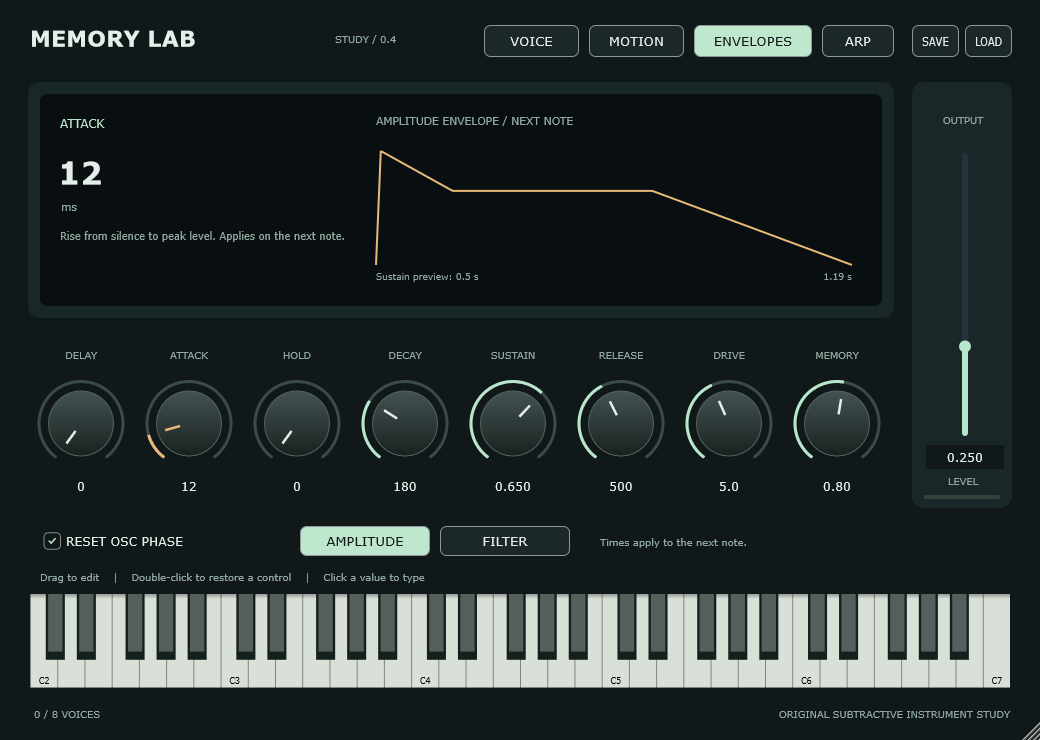
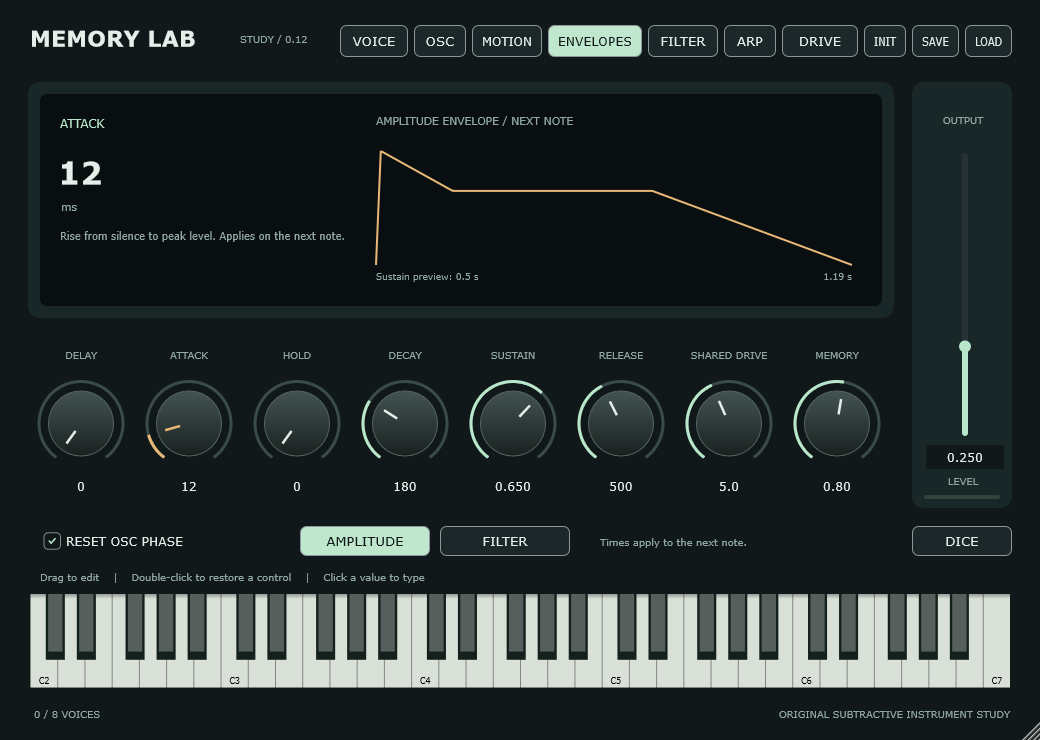
Update project site for version 0.12 expression and current editor

Changed region(s): [[0.3077, 0.0311, 0.8615, 0.0932], [0.6769, 0.4662, 0.7385, 0.4973], [0.2462, 0.0311, 0.2769, 0.0622]]

diff --git a/docs/index.html b/docs/index.html
@@ -24,15 +24,15 @@
 
     <section id="instrument" class="instrument wrap" aria-labelledby="instrument-title">
       <div class="section-top"><h2 id="instrument-title">Meet the instrument.</h2><span class="small muted">PLAY FIRST. EXPLORE FROM THERE.</span></div>
-      <div class="screen-frame"><div class="screen-top"><span><i aria-hidden="true"></i> DEVELOPMENT EDITOR</span><span>0.4 SERIES</span></div><img id="editor-image" src="assets/editor/voice.png" alt="Memory Lab Study Voice editor with eight rotary controls, a filter response display and piano keyboard" width="1040" height="740" fetchpriority="high"></div>
+      <div class="screen-frame"><div class="screen-top"><span><i aria-hidden="true"></i> DEVELOPMENT EDITOR</span><span>0.12 SERIES</span></div><img id="editor-image" src="assets/editor/voice.png" alt="Memory Lab Study Voice editor with eight rotary controls, a filter response display and piano keyboard" width="1040" height="740" fetchpriority="high"></div>
       <div class="editor-selector" role="group" aria-label="Explore the editor pages">
-        <button type="button" data-view="voice" aria-pressed="true">01 <span>Voice</span></button><button type="button" data-view="motion" aria-pressed="false">02 <span>Motion</span></button><button type="button" data-view="amplitude" aria-pressed="false">03 <span>Amplitude</span></button><button type="button" data-view="filter-envelope" aria-pressed="false">04 <span>Filter envelope</span></button><button type="button" data-view="arp" aria-pressed="false">05 <span>Arpeggiator</span></button>
+        <button type="button" data-view="voice" aria-pressed="true">01 <span>Voice</span></button><button type="button" data-view="expression" aria-pressed="false">02 <span>Expression</span></button><button type="button" data-view="osc" aria-pressed="false">03 <span>Oscillators</span></button><button type="button" data-view="motion" aria-pressed="false">04 <span>Motion</span></button><button type="button" data-view="motion-clock" aria-pressed="false">05 <span>Clock</span></button><button type="button" data-view="amplitude" aria-pressed="false">06 <span>Amplitude</span></button><button type="button" data-view="filter-envelope" aria-pressed="false">07 <span>Filter envelope</span></button><button type="button" data-view="filter-classic" aria-pressed="false">08 <span>Filter</span></button><button type="button" data-view="arp" aria-pressed="false">09 <span>Arpeggiator</span></button><button type="button" data-view="drive" aria-pressed="false">10 <span>Drive</span></button><button type="button" data-view="dice-bypass" aria-pressed="false">11 <span>Dice</span></button>
       </div>
       <p id="editor-caption" class="caption" aria-live="polite">Shape two oscillators, sweep the classic filter, and explore shared drive, memory and recovery.</p>
-      <div class="feature-strip"><article><span class="feature-number">08</span><h3>Voices to play with</h3><p>Polyphonic notes, sustain and expressive pitch and pressure controls.</p></article><article><span class="feature-number">02</span><h3>Independent envelopes</h3><p>Amplitude and filter contours with delay, attack, hold, decay, sustain and release.</p></article><article><span class="feature-number">∿</span><h3>Movement built in</h3><p>A per-voice sine LFO and an optional arpeggiator that follows host or internal tempo.</p></article></div>
+      <div class="feature-strip"><article><span class="feature-number">08</span><h3>Voices to play with</h3><p>Polyphonic notes, sustain and expressive pitch and pressure controls.</p></article><article><span class="feature-number">02</span><h3>Independent envelopes</h3><p>Amplitude and filter contours with delay, attack, hold, decay, sustain and release.</p></article><article><span class="feature-number">∿</span><h3>Movement built in</h3><p>Four LFO shapes, host-synced or free-running movement, and an optional tempo-following arpeggiator.</p></article></div>
     </section>
 
-    <section id="listen" class="listen-band" aria-labelledby="listen-title"><div class="wrap listen-grid"><div class="listen-intro"><span class="eyebrow">02 / THE LISTENING ROOM</span><h2 id="listen-title">Same notes.<br>Different <em>edge.</em></h2><p>A first experiment with drive after each voice’s filter. Compare a single note with an E-minor chord as the low-pass filter opens.</p><p class="muted">Bypass, +8 dB and +24 dB, matched to −24 dBFS RMS. Listen for texture, bite and the separation between notes.</p><div class="experiment-tag">OFFLINE EXPERIMENT</div><p class="fine">Simple hard clipping, not a model of a hardware VCA. Shared memory drive is set to zero here. This experiment is not in the installed plugin.</p></div>
+    <section id="listen" class="listen-band" aria-labelledby="listen-title"><div class="wrap listen-grid"><div class="listen-intro"><span class="eyebrow">02 / THE LISTENING ROOM</span><h2 id="listen-title">Same notes.<br>Different <em>edge.</em></h2><p>A first experiment with drive after each voice’s filter. Compare a single note with an E-minor chord as the low-pass filter opens.</p><p class="muted">Bypass, +8 dB and +24 dB, matched to −24 dBFS RMS. Listen for texture, bite and the separation between notes.</p><div class="experiment-tag">OFFLINE EXPERIMENT</div><p class="fine">Simple hard clipping, not a model of a hardware VCA. Shared memory drive is set to zero here. These original study clips predate the current release; per-voice drive is now available in the instrument.</p></div>
       <div class="listening-panel"><div class="phrase-switch" role="group" aria-label="Choose a listening phrase"><button type="button" data-phrase="single" aria-pressed="true">Single note</button><button type="button" data-phrase="chord" aria-pressed="false">E-minor chord</button></div><p id="phrase-description" class="small muted" aria-live="polite">A SINGLE E NOTE · 3 SECONDS · 48 KHZ</p>
       <article class="audio-row"><div class="audio-title"><span class="index">A</span><h3>Bypass</h3><span class="audio-detail">THE REFERENCE</span></div><audio controls preload="none" src="assets/audio/single-bypass.wav" aria-label="Single note, extra drive bypassed">Your browser does not support audio. <a href="assets/audio/single-bypass.wav">Download the reference WAV.</a></audio></article>
       <article class="audio-row"><div class="audio-title"><span class="index">B</span><h3>+8 dB</h3><span class="audio-detail">MORE DRIVE</span></div><audio controls preload="none" src="assets/audio/single-8db.wav" aria-label="Single note, 8 decibels of extra drive">Your browser does not support audio. <a href="assets/audio/single-8db.wav">Download the 8 dB WAV.</a></audio></article>
@@ -41,10 +41,10 @@
     </div></section>
 
     <section id="research" class="research wrap" aria-labelledby="research-title"><div class="section-top"><span class="eyebrow">03 / THE PROCESS</span><span class="small muted">LISTEN. MEASURE. KEEP WHAT WORKS.</span></div><div class="research-grid"><h2 id="research-title">Inspired by hardware.<br><em>Finding its own voice.</em></h2><div><p>Memory Lab began with a question: what happens when a drive stage remembers recent signal energy? That shared memory stage remains at the heart of the study.</p><p class="muted">Research into the Shear Electronics Relic informs new experiments, including per-voice drive and richer modulation. This is an original, partial instrument—not a complete Relic emulation or a measured hardware match.</p><a class="text-link" href="https://github.com/holbizmetrics/memory-lab-study/blob/main/HARDWARE-SYNTH-WORKFLOW.md">Read the development notebook <span aria-hidden="true">↗</span></a><p class="fine repo-note">Source, notebook and release history are available in the public repository.</p></div></div>
-      <div class="progress-list"><article><span class="progress-label">PLAYABLE</span><div><h3>A character to build on</h3><p>Eight-voice engine, classic filter sweep, editable envelopes and an optional arp. Played and enjoyed in FL Studio.</p></div></article><article><span class="progress-label">DEVELOPMENT BUILD</span><div><h3>Keep the sounds you discover</h3><p>Save and load all 35 controls in a separate patch file. The development editor shown here includes these buttons.</p></div></article><article><span class="progress-label amber">EXPLORING</span><div><h3>More ways to shape a voice</h3><p>Per-voice drive is the current listening study. Future candidates include oscillator mixing, envelope contours and richer filter modulation.</p></div></article></div>
+      <div class="progress-list"><article><span class="progress-label">PLAYABLE</span><div><h3>A character to build on</h3><p>Eight-voice engine, classic filter sweep, editable envelopes and an optional arp. Played and enjoyed in FL Studio.</p></div></article><article><span class="progress-label">DEVELOPMENT BUILD</span><div><h3>Keep the sounds you discover</h3><p>Save and load all 49 controls in .mlpatch files, recall settings through your DAW, and return to factory settings with INIT. Patch dialogs remember their folder; older patches migrate to compatible defaults.</p></div></article><article><span class="progress-label amber">IMPLEMENTED</span><div><h3>More ways to shape a voice</h3><p>Independent saw/pulse mixing and white noise, four filter families, per-voice and shared drive, and a bounded preset randomizer with section locks, one-step undo and optional drive bypass are implemented.</p></div></article><article><span class="progress-label">NEW IN 0.12</span><div><h3>A more expressive voice</h3><p>Filter key tracking and separate amplitude/filter-envelope velocity sensitivities, with response previews on the VOICE expression page. All nine technical checks passed; Holger’s combined listening test of these controls and the dice drive-bypass option remains pending.</p></div></article></div>
     </section>
 
-    <section id="releases" class="releases wrap" aria-labelledby="release-title"><div><span class="eyebrow">04 / FOLLOW ALONG</span><h2 id="release-title">A good sound.<br>A place to keep it.</h2><p class="muted">The current preserved source milestone is <strong>v0.4.0-alpha.2</strong>. Source prereleases document the instrument as it grows; there is no downloadable plugin binary yet.</p></div><div class="release-box"><span class="release-version">0.4.0<span>ALPHA.2 / SOURCE SNAPSHOT</span></span><a class="button" href="https://github.com/holbizmetrics/memory-lab-study/releases/tag/v0.4.0-alpha.2">View release <span aria-hidden="true">↗</span></a><a class="text-link" href="https://github.com/holbizmetrics/memory-lab-study">Explore the repository <span aria-hidden="true">↗</span></a><p class="fine">Windows x64 development builds; native patch dialogs in FL Studio still await verification.</p></div></section>
+    <section id="releases" class="releases wrap" aria-labelledby="release-title"><div><span class="eyebrow">04 / FOLLOW ALONG</span><h2 id="release-title">A good sound.<br>A place to keep it.</h2><p class="muted">The current preserved source milestone is <strong>v0.12.0-alpha.1</strong>. Source prereleases document the instrument as it grows; there is no downloadable plugin binary yet.</p></div><div class="release-box"><span class="release-version">0.12.0<span>ALPHA.1 / SOURCE SNAPSHOT</span></span><a class="button" href="https://github.com/holbizmetrics/memory-lab-study/releases/tag/v0.12.0-alpha.1">View release <span aria-hidden="true">↗</span></a><a class="text-link" href="https://github.com/holbizmetrics/memory-lab-study">Explore the repository <span aria-hidden="true">↗</span></a><p class="fine">Windows x64 VST3 + standalone development builds. Source-only prerelease; binary distribution awaits licensing. Full FL automation/undo/project-reload verification remains open.</p></div></section>
   </main>
   <footer class="wrap footer"><span>MEMORY LAB STUDY <span class="muted">/ AN INSTRUMENT IN PROGRESS</span></span><a href="#">Back to top ↑</a></footer>
 </body>

diff --git a/docs/style.css b/docs/style.css
@@ -2,3 +2,5 @@
 :root{color-scheme:dark;--bg:#101819;--panel:#1a2729;--mint:#b9e7cb;--white:#e5eee8;--muted:#9db0aa;--line:#344440;--amber:#e8b879}*{box-sizing:border-box}html{scroll-behavior:smooth;scroll-padding-top:24px}body{margin:0;background:var(--bg);color:var(--white);font:16px/1.65 "Segoe UI",Arial,sans-serif}a{color:inherit;text-decoration:none}button{font:inherit;cursor:pointer}button,a,audio{outline-offset:6px}a:focus-visible,button:focus-visible{outline:2px solid var(--amber)}.wrap{width:min(1200px,calc(100% - 96px));margin-inline:auto}.header{display:flex;align-items:center;justify-content:space-between;padding-block:30px;border-bottom:1px solid var(--line);gap:28px}.brand{display:flex;align-items:center;gap:12px;font-weight:750;letter-spacing:.06em;line-height:1.2;font-size:16px}.brand-mark{display:grid;place-content:center;width:44px;height:44px;border:1px solid var(--mint);color:var(--mint);font:italic 34px Georgia;position:relative}.brand-mark span{font:20px Georgia;position:absolute;right:2px;bottom:-3px;background:var(--bg)}.brand-sub{display:block;font-size:9px;font-weight:400;color:var(--muted);letter-spacing:.14em;margin-top:6px}nav{display:flex;align-items:center;gap:30px;font-size:13px}nav a:hover,.text-link:hover{color:var(--mint)}.nav-release{border:1px solid var(--line);padding:9px 17px}.nav-release span{margin-left:20px}.hero{padding-top:66px}.eyebrow,.small,.index,.hero-bottom,.screen-top,.progress-label,.experiment-tag{font-size:10px;letter-spacing:.14em;font-weight:600}.eyebrow{display:flex;align-items:center;gap:12px;color:var(--mint)}.live-dot{width:6px;height:6px;border-radius:50%;background:var(--mint)}.eyebrow-rule{width:34px;height:1px;background:var(--line)}.hero-grid{display:grid;grid-template-columns:1.9fr 1fr;align-items:end;gap:64px;padding-block:30px 64px}h1{font-weight:450;letter-spacing:-.065em;line-height:1.06;font-size:clamp(50px,6.5vw,90px);margin:0}em{font-family:Georgia,"Times New Roman",serif;font-weight:400;color:var(--mint);letter-spacing:-.045em}.hero-note{max-width:300px;padding-bottom:4px}.index{color:var(--muted)}p{margin:16px 0}.hero-note p{font-size:17px;line-height:1.6}.hero-note .muted{font-size:14px}.muted,.caption,.fine{color:var(--muted)}.text-link{display:inline-flex;gap:26px;align-items:center;font-size:13px;border-bottom:1px solid var(--line);padding-bottom:6px;margin-top:10px}.text-link span{color:var(--mint)}.hero-bottom{display:flex;justify-content:space-between;border-top:1px solid var(--line);padding:17px 0 28px;color:var(--muted);font-size:9px}.section-top{display:flex;justify-content:space-between;align-items:center;gap:20px;margin-bottom:26px}h2{font-size:36px;line-height:1.2;font-weight:450;letter-spacing:-.035em;margin:0}.section-top h2{font-size:25px}.instrument{padding-top:36px}.screen-frame{border:1px solid var(--line);background:#0b1213;padding:14px 28px 0;border-radius:10px;overflow:hidden;box-shadow:0 24px 65px #0003}.screen-top{display:flex;justify-content:space-between;color:var(--muted);font-size:8px;padding:1px 0 14px}.screen-top i{display:inline-block;width:5px;height:5px;background:var(--mint);border-radius:50%;margin-right:7px}.screen-frame img{display:block;width:100%;height:auto}.editor-selector{display:grid;grid-template-columns:repeat(5,1fr);border-bottom:1px solid var(--line);margin-top:16px}.editor-selector button{border:0;border-bottom:2px solid transparent;background:none;color:var(--muted);text-align:left;padding:18px 10px;font-size:10px}.editor-selector button span{font-size:13px;margin-left:13px}.editor-selector button[aria-pressed=true]{color:var(--mint);border-color:var(--mint)}.editor-selector button:hover{background:var(--panel)}.caption{font-size:13px;min-height:44px;margin-top:18px}.feature-strip{display:grid;grid-template-columns:repeat(3,1fr);gap:55px;padding:30px 0 80px}.feature-number{font:italic 43px Georgia;color:var(--mint)}h3{font-size:17px;font-weight:550;letter-spacing:-.02em;margin:12px 0 8px}.feature-strip p{font-size:14px;color:var(--muted);margin-top:0}.listen-band{background:#dce7dc;color:#1a2729;padding:80px 0}.listen-band em{color:#3e6654}.listen-band .muted,.listen-band .fine,.listen-band .small,.listen-band .index{color:#52685d}.listen-band .eyebrow{color:#446552}.listen-grid{display:grid;grid-template-columns:1fr 1.3fr;gap:90px}.listen-intro h2{font-size:48px;margin:25px 0}.listen-intro>p{max-width:355px;font-size:15px}.experiment-tag{display:inline-block;border:1px solid #a0b8a7;padding:6px 10px;margin-top:20px;font-size:9px}.fine{font-size:12px;line-height:1.65}.listen-intro .fine{font-size:12px}.listening-panel{background:#f0f4ed;padding:28px;border:1px solid #c4d3c6;border-radius:6px}.phrase-switch{display:flex;gap:4px;padding:4px;background:#dfe8dd;border-radius:4px}.phrase-switch button{flex:1;padding:10px;border:1px solid transparent;background:none;color:#42604f;font-size:13px;border-radius:3px}.phrase-switch button[aria-pressed=true]{background:#203b2f;color:#f0f4ed}.listening-panel>.small{font-size:8px;margin-top:20px}.audio-row{border-top:1px solid #c5d4c7;padding:16px 0 10px}.audio-title{display:flex;align-items:center;gap:14px}.audio-title .index{font-size:11px}.audio-title h3{margin:0;flex:1}.audio-detail{font-size:8px;letter-spacing:.12em;color:#52685d}audio{width:100%;height:42px;margin-top:10px;display:block;color-scheme:light}.listening-panel>.fine{font-size:11px;margin-bottom:0}.research{padding:80px 0}.research-grid{display:grid;grid-template-columns:1.2fr 1fr;gap:85px;margin-top:40px}.research-grid p{font-size:15px;margin-top:0}.research-grid h2{font-size:43px}.repo-note{margin-top:15px!important;font-size:11px!important}.progress-list{margin-top:48px;border-top:1px solid var(--line)}.progress-list article{display:grid;grid-template-columns:230px 1fr;gap:30px;padding:25px 0;border-bottom:1px solid var(--line)}.progress-label{padding-top:9px;color:var(--mint);font-size:9px}.progress-label.amber{color:var(--amber)}.progress-list h3{margin-top:0}.progress-list p{font-size:14px;color:var(--muted);margin:0;max-width:670px}.releases{display:grid;grid-template-columns:1.25fr 1fr;gap:110px;border-top:1px solid var(--line);padding:65px 0 85px}.releases h2{font-size:44px;margin:25px 0}.releases p{font-size:14px;max-width:440px}.release-box{border:1px solid var(--line);padding:30px;background:var(--panel);align-self:start}.release-version{display:block;font-size:48px;letter-spacing:-.05em;line-height:1.1}.release-version>span{display:block;font-size:9px;letter-spacing:.14em;color:var(--mint);margin-top:12px}.button{background:var(--mint);color:#152a20;padding:12px 18px;display:flex;justify-content:space-between;align-items:center;font-size:14px;margin:30px 0 10px}.button:hover{background:#d3f4df}.release-box>.text-link{font-size:12px}.release-box>.fine{font-size:11px;margin-bottom:0}.footer{border-top:1px solid var(--line);display:flex;justify-content:space-between;gap:20px;padding:24px 0 35px;font-size:9px;letter-spacing:.08em}.footer .muted{margin-left:14px}.skip{position:fixed;top:-80px;left:16px;z-index:99;background:var(--mint);color:var(--bg);padding:12px}.skip:focus{top:12px}section{scroll-margin-top:28px}strong{font-weight:600;color:var(--white)}
 @media(min-width:1500px){.wrap{width:min(1240px,calc(100% - 140px))}}@media(max-width:900px){.wrap{width:calc(100% - 48px)}.hero-grid{gap:30px;grid-template-columns:1.5fr 1fr}h1{font-size:60px}.hero-note p{font-size:15px}.listen-grid{gap:38px}.listen-intro h2{font-size:39px}.research-grid{gap:35px}.research-grid h2{font-size:34px}.releases{gap:50px}.editor-selector button{padding-inline:5px}.editor-selector button span{margin-left:5px;font-size:11px}.feature-strip{gap:30px}.section-top .small{font-size:8px}nav{gap:18px}.progress-list article{grid-template-columns:180px 1fr}}@media(max-width:620px){.wrap{width:calc(100% - 36px)}.header{padding-block:20px;align-items:flex-start;gap:16px}.brand{font-size:12px}.brand-mark{width:35px;height:35px;font-size:28px}.brand-sub{font-size:7px}.header nav{gap:14px;flex-wrap:wrap;justify-content:flex-end;font-size:11px;max-width:160px}.nav-release{padding:0;border:0}.nav-release span{margin-left:3px}.hero{padding-top:42px}.eyebrow{font-size:8px;gap:8px}.hero>.eyebrow{flex-wrap:wrap;line-height:2}.eyebrow-rule{width:16px}.hero-grid{grid-template-columns:1fr;gap:30px;padding:24px 0 32px}h1{font-size:clamp(44px,10vw,62px)}.hero-note{max-width:350px}.hero-note .index{display:none}.hero-note p{margin-top:0}.hero-bottom{font-size:7px;gap:20px}.instrument{padding-top:22px}.section-top{align-items:flex-start;gap:14px}.section-top .small{display:none}.section-top h2{font-size:23px}.screen-frame{padding:8px 6px 0;border-radius:5px}.screen-top{font-size:6px;padding:2px 4px 8px}.editor-selector{overflow-x:auto;display:flex}.editor-selector button{flex:0 0 auto;padding:14px 10px;font-size:8px}.editor-selector button span{font-size:11px}.caption{font-size:12px;min-height:58px}.feature-strip{grid-template-columns:1fr;gap:12px;padding:12px 0 42px}.feature-strip article{display:grid;grid-template-columns:58px 1fr;gap:0 14px}.feature-number{grid-row:span 2;font-size:35px}.feature-strip h3{margin-top:5px;font-size:15px}.feature-strip p{font-size:13px}.listen-band{padding:45px 0}.listen-grid{grid-template-columns:1fr;gap:25px}.listen-intro h2{font-size:39px;margin:20px 0}.listen-intro>p{max-width:none}.listening-panel{padding:20px}.research{padding:48px 0}.research-grid{grid-template-columns:1fr;gap:25px;margin-top:25px}.research-grid h2{font-size:35px}.progress-list{margin-top:30px}.progress-list article{grid-template-columns:1fr;gap:9px;padding:20px 0}.progress-label{padding-top:0}.releases{grid-template-columns:1fr;gap:25px;padding:45px 0}.releases h2{font-size:38px}.release-box{padding:25px}.footer{flex-direction:column;gap:12px;font-size:8px}.footer .muted{margin-left:0;display:block;margin-top:5px}}
 @media(prefers-reduced-motion:reduce){html{scroll-behavior:auto}}
+
+.editor-selector{display:flex;flex-wrap:wrap}.editor-selector button{flex:1 0 auto}

diff --git a/docs/site.js b/docs/site.js
@@ -1,10 +1,49 @@
 "use strict";
 const views = {
-  voice: ["Voice editor", "Shape two oscillators, sweep the classic filter, and explore shared drive, memory and recovery."],
-  motion: ["Motion editor", "Bring in vibrato, pulse-width movement, cutoff motion and filter-envelope depth."],
-  amplitude: ["Amplitude envelope editor", "Set the amplitude contour from delay and attack through sustain and release. Stages latch on the next note."],
-  "filter-envelope": ["Filter envelope editor", "Shape a separate filter contour and its contribution to cutoff."],
-  arp: ["Arpeggiator editor", "Hold notes to explore rhythm, direction, octave range and gate. The first note starts the clock."]
+  "voice": [
+    "Voice sound editor",
+    "Shape two oscillators, sweep the classic filter, and explore shared drive, memory and recovery."
+  ],
+  "expression": [
+    "Voice expression editor",
+    "Set filter key tracking and independent amplitude/filter-envelope velocity sensitivities. Response curves preview the mappings."
+  ],
+  "osc": [
+    "Oscillator editor",
+    "Mix independent saw and pulse sources, tune oscillator two, and blend per-voice white noise before the filter and drive."
+  ],
+  "motion": [
+    "Motion editor",
+    "Choose sine, triangle, saw or pulse movement for pitch, pulse width and cutoff."
+  ],
+  "motion-clock": [
+    "Motion clock editor",
+    "Sync movement to host tempo or use an internal fallback, with rhythmic divisions and note-retrigger or free-running phase."
+  ],
+  "amplitude": [
+    "Amplitude envelope editor",
+    "Set delay, attack, hold, decay, sustain and release. Envelope stages latch on the next note."
+  ],
+  "filter-envelope": [
+    "Filter envelope editor",
+    "Shape an independent six-stage filter contour and its contribution to cutoff."
+  ],
+  "filter-classic": [
+    "Filter editor",
+    "Explore Classic, LP4, BP4 and Blend families. Classic profile operates in the Classic family."
+  ],
+  "arp": [
+    "Arpeggiator editor",
+    "Explore rhythmic rates, up/down/up-down order, octave layers and gate length."
+  ],
+  "drive": [
+    "Drive editor",
+    "Intentional distortion: per-voice clipping after the filter, followed by shared memory drive after the voices mix. Zero bypasses each drive."
+  ],
+  "dice-bypass": [
+    "Preset randomizer editor",
+    "Roll bounded sounds, lock sections, undo the last roll, or bypass both drives on the next roll. Output and expression settings are preserved."
+  ]
 };
 const image = document.querySelector("#editor-image");
 document.querySelectorAll("[data-view]").forEach(button => button.addEventListener("click", () => {

diff --git a/docs/README.md b/docs/README.md
@@ -29,7 +29,7 @@ and successful build before reporting the site as published.
 
 ## Behavior and verification
 
-- Five editor buttons switch real screenshots with descriptive captions.
+- Eleven editor buttons switch real screenshots with descriptive captions.
 - Single-note/chord selection switches all three audio examples and resets playback.
 - Only one example plays at a time; changing the phrase does not autoplay.
 - Native audio controls and keyboard-operable buttons; visible focus styles,
@@ -41,8 +41,14 @@ and successful build before reporting the site as published.
 
 ## Assets
 
-Editor PNGs: outputs/patch-editor-preview (development build, including SAVE/LOAD).
+Editor PNGs: outputs/expression-0.12-preview (v0.12 development build).
 Matched WAVs: outputs/voice-drive-study-2, verified against verification.json.
-Three-second mono 48 kHz float WAVs, matched to -24 dBFS RMS. The experimental
-drive stage is not compiled into the installed plugin. Raw measurement artifacts
+Three-second mono 48 kHz float WAVs, matched to -24 dBFS RMS. These historical clips predate the current release; per-voice drive is now implemented. Raw measurement artifacts
 remain ignored under outputs/ and are not published by this site.
+
+## Current content
+
+Updated for v0.12.0-alpha.1: 49 controls, current editor captures, expression,
+oscillator mixing/noise, filter families, motion shapes/clock, INIT and dice.
+Historical audio retains its original study provenance. New expression and dice
+drive-bypass musical approval remains pending; technical checks are distinguished.
